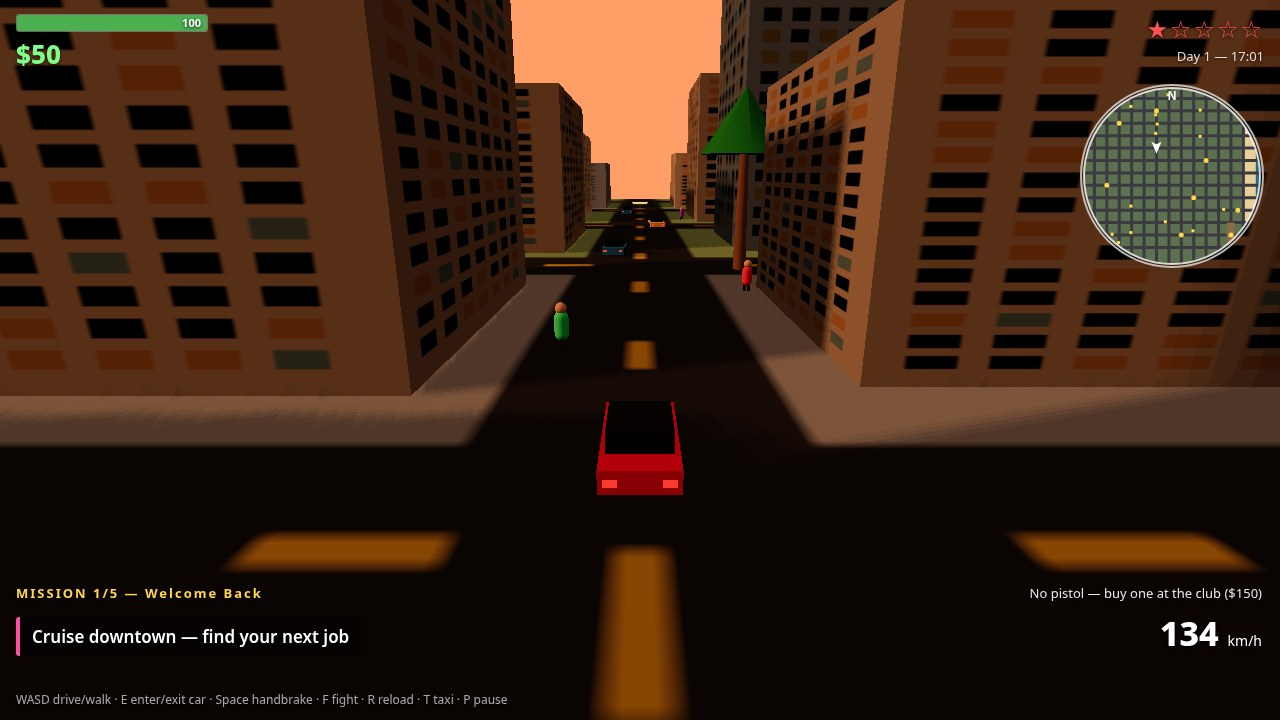
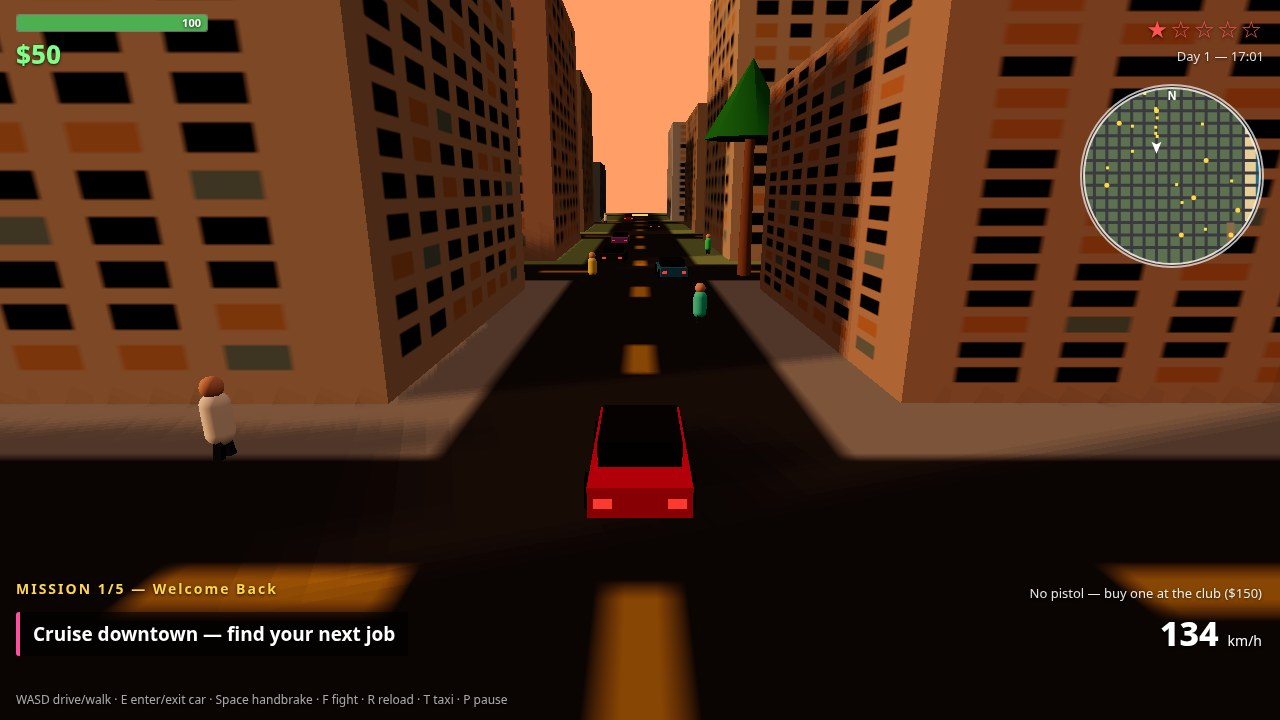
gta6-01 r5: polish screenshots — denser traffic/peds, 3rd cop + roadblock on cover, escort van + rivals visible in mission shot, closer cameras, bolder HUD objective

diff --git a/game/src/shots.js b/game/src/shots.js
@@ -11,7 +11,7 @@ import { tryAttack } from './combat.js';
 import { scarePeds } from './pedestrians.js';
 import { startMission } from './missions.js';
 import { stepWorld } from './world.js';
-import { stepCar } from './vehicles.js';
+import { stepCar, createCar } from './vehicles.js';
 
 export function parseShot() {
   const q = new URLSearchParams(window.location.search);
@@ -56,12 +56,37 @@ export function stageShot(W, scene, name) {
     p.wanted = 3;
     W.stats.bestWanted = 3;
     W.shotObjective = 'Lose the cops';
-    // Two cops posed behind: offsets x ±5, z -12/-19.
+    // Three cops posed behind: offsets x ±5, z -12/-19/-26.
     const c1 = spawnCop(W, scene, 217, -52);
     const c2 = spawnCop(W, scene, 227, -59);
-    c1.heading = 0; c2.heading = 0;
-    c1.speed = 24; c2.speed = 24;
-    W.camOverride = { yaw: Math.PI + 0.35, pitch: 0.36, dist: 17 };
+    const c3 = spawnCop(W, scene, 222, -66);
+    c1.heading = 0; c2.heading = 0; c3.heading = 0;
+    c1.speed = 24; c2.speed = 24; c3.speed = 24;
+    // Roadblock across the boulevard behind the chase (visible in
+    // frame beyond the cops): two static police cars, sideways.
+    // They are NOT in W.police, so nothing steps them — they just sit.
+    for (const bx of [216, 224]) {
+      const block = createCar(W, { kind: 'police', x: bx, z: -80, heading: Math.PI / 2, color: 0x1a2a4a });
+      block.active = true;
+      scene.add(block.mesh);
+    }
+    // Two traffic cars fleeing south up the boulevard ahead of the
+    // cops, and pedestrians scattering on both sidewalks.
+    W.traffic.slice(0, 2).forEach((c, i) => {
+      c.x = i === 0 ? 217 : 223;
+      c.z = i === 0 ? -88 : -108;
+      c.heading = 0;
+      c.cruise = 11;
+      c.route = { x: c.x, z: c.z + 40 };
+      c.mesh.position.set(c.x, 0, c.z);
+    });
+    W.peds.slice(0, 4).forEach((pd, i) => {
+      pd.x = i % 2 === 0 ? 211 : 229;
+      pd.z = -55 - i * 13;
+      pd.mesh.position.set(pd.x, 0, pd.z);
+    });
+    scarePeds(W, 222, -40, 45);
+    W.camOverride = { yaw: Math.PI + 0.3, pitch: 0.32, dist: 14 };
     W.shotSteps = 150;
     W.shotKind = 'drive';
     W.shotLane = 222;
@@ -78,11 +103,11 @@ export function stageShot(W, scene, name) {
     p.car = car;
     p.mesh.visible = false;
     // Clear traffic off the route x=-40, z -170..-30, then re-stage
-    // three traffic cars ahead on the same road (visible up the avenue)
-    // and a few peds on the sidewalks near the player.
+    // five traffic cars ahead on the same road (visible up the avenue)
+    // and six peds on the sidewalks near the player.
     clearTrafficRect(W, -50, -170, -30, -30);
-    const routeCars = W.traffic.slice(0, 3);
-    const routeSpots = [[-42.6, -110], [-37.4, -140], [-42.6, -170]];
+    const routeCars = W.traffic.slice(0, 5);
+    const routeSpots = [[-42.6, -70], [-37.4, -100], [-42.6, -130], [-37.4, -160], [-42.6, -190]];
     routeCars.forEach((c, i) => {
       c.x = routeSpots[i][0];
       c.z = routeSpots[i][1];
@@ -91,29 +116,41 @@ export function stageShot(W, scene, name) {
       c.route = { x: -40, z: c.z - 40 };
       c.mesh.position.set(c.x, 0, c.z);
     });
-    W.peds.slice(3, 6).forEach((pd, i) => {
+    W.peds.slice(3, 9).forEach((pd, i) => {
       pd.x = i % 2 === 0 ? -47 : -33;
-      pd.z = -95 - i * 10;
+      pd.z = -55 - i * 15;
       pd.mesh.position.set(pd.x, 0, pd.z);
     });
     W.shotObjective = 'Cruise downtown — find your next job';
-    W.camOverride = { yaw: Math.PI, pitch: 0.36, dist: 16 };
+    W.camOverride = { yaw: Math.PI, pitch: 0.33, dist: 13 };
     W.shotSteps = 120;
     W.shotKind = 'drive';
     W.shotLane = -40;
     W.shotBaseHeading = Math.PI;
   } else if (name === 'foot') {
     // On foot: pistol standoff by a car, peds fleeing, wanted 1.
-    p.x = 206; p.z = 30; p.heading = Math.PI * 0.75;
+    // Dario faces the car he is about to steal (east-south of him).
+    p.x = 206; p.z = 30; p.heading = 1.0;
     p.mesh.position.set(p.x, 0, p.z);
     p.hasPistol = true;
     p.ammo = CFG.PISTOL_AMMO;
     const car = W.parked.find((c) => Math.abs(c.x - 216) < 2) || W.parked[0];
     car.x = 212; car.z = 34; car.heading = Math.PI / 2;
     car.mesh.position.set(car.x, 0, car.z);
-    for (const ped of W.peds.slice(0, 4)) {
-      ped.x = 200 + W.rng() * 12;
-      ped.z = 24 + W.rng() * 10;
+    // A second parked car across the road, and a traffic car passing
+    // on the road behind Dario, so the frame reads as a live street.
+    const car2 = W.parked.find((c) => c !== car) || null;
+    if (car2) {
+      car2.x = 198; car2.z = 44; car2.heading = Math.PI / 2;
+      car2.mesh.position.set(car2.x, 0, car2.z);
+    }
+    const passer = W.traffic[0];
+    passer.x = 200; passer.z = 8; passer.heading = 0; passer.cruise = 12;
+    passer.route = { x: 200, z: 48 };
+    passer.mesh.position.set(passer.x, 0, passer.z);
+    for (const ped of W.peds.slice(0, 6)) {
+      ped.x = 198 + W.rng() * 18;
+      ped.z = 22 + W.rng() * 24;
       ped.mesh.position.set(ped.x, 0, ped.z);
     }
     scarePeds(W, p.x, p.z, 30);
@@ -121,16 +158,39 @@ export function stageShot(W, scene, name) {
     p.wanted = 1;
     W.stats.bestWanted = 1;
     W.missions.objective = 'Steal a car — walk up to one and press E';
-    W.camOverride = { yaw: p.heading, pitch: 0.3, dist: 8.5 };
+    W.camOverride = { yaw: p.heading, pitch: 0.28, dist: 6.5 };
     W.shotSteps = 90;
     W.shotKind = 'idle';
   } else if (name === 'mission') {
     // Mission start at the club: objective text, skyline + beach behind.
+    // The escort van + both rival hunters are pulled up close to Dario
+    // so the frame shows the whole beat: white van ahead, black rivals
+    // flanking it, pink marker pillar at Club Solano beyond.
     startMission(W, scene, 3); // Solano's Cut, stage 0 — marker = club
-    p.x = 160; p.z = 168; p.heading = Math.PI;
+    // Everyone stands ON the x=160 road (block centres are 20 mod 40,
+    // so x=148 would put Dario inside a building's footprint).
+    p.x = 160; p.z = 154; p.heading = Math.PI;
     p.mesh.position.set(p.x, 0, p.z);
+    const van = W.missions.van;
+    if (van) {
+      van.x = 160; van.z = 140; van.heading = Math.PI;
+      van.waypoints = [[160, 120]];
+      van.wpIndex = 0;
+      van.mesh.position.set(van.x, 0, van.z);
+    }
+    W.missions.rivals.forEach((r, i) => {
+      r.x = i === 0 ? 156 : 164;
+      r.z = i === 0 ? 130 : 134;
+      r.heading = Math.PI;
+      r.mesh.position.set(r.x, 0, r.z);
+    });
+    W.peds.slice(0, 3).forEach((pd, i) => {
+      pd.x = [153, 167, 154][i];
+      pd.z = [128, 132, 118][i];
+      pd.mesh.position.set(pd.x, 0, pd.z);
+    });
     // Look NORTH toward the club (camYaw is the look direction here).
-    W.camOverride = { yaw: Math.PI - 0.15, pitch: 0.3, dist: 13 };
+    W.camOverride = { yaw: Math.PI - 0.1, pitch: 0.28, dist: 11 };
     W.shotSteps = 60;
     W.shotKind = 'idle';
   } else {

diff --git a/game/index.html b/game/index.html
@@ -18,8 +18,8 @@
   #hud-tr { position: absolute; top: 12px; right: 16px; text-align: right; }
   #stars { font-size: 24px; letter-spacing: 2px; }
   #clock { font-size: 13px; opacity: .85; margin-top: 2px; }
-  #objective { position: absolute; left: 16px; bottom: 64px; font-size: 17px; font-weight: 600; background: rgba(0,0,0,.5); padding: 8px 12px; border-left: 4px solid #ff4fa3; border-radius: 3px; max-width: 560px; }
-  #mission-title { position: absolute; left: 16px; bottom: 118px; font-size: 13px; letter-spacing: 2px; color: #ffd54a; font-weight: 700; }
+  #objective { position: absolute; left: 16px; bottom: 64px; font-size: 19px; font-weight: 700; background: rgba(0,0,0,.55); padding: 9px 13px; border-left: 4px solid #ff4fa3; border-radius: 3px; max-width: 620px; }
+  #mission-title { position: absolute; left: 16px; bottom: 122px; font-size: 14px; letter-spacing: 2px; color: #ffd54a; font-weight: 700; }
   #speedo { position: absolute; right: 18px; bottom: 64px; font-size: 34px; font-weight: 800; }
   #speedo span { font-size: 14px; font-weight: 400; }
   #ammo { position: absolute; right: 18px; bottom: 118px; font-size: 13px; opacity: .9; }

diff --git a/README.md b/README.md
@@ -1,10 +1,10 @@
-# Solmara: Sunset Heist
+# gta6-01
 
 [![make.fun · gta6-01](https://make.fun/badge/gta6-01.svg)](https://make.fun/bounty/gta6-01?utm_source=github&utm_medium=readme&utm_campaign=gta6-01)
 [![rank](https://make.fun/badge/gta6-01/zhfz-ai/gta6-01/rank.svg)](https://make.fun/bounty/gta6-01/leaderboard?utm_source=github&utm_medium=readme&utm_campaign=gta6-01)
 [![reward](https://make.fun/badge/gta6-01/zhfz-ai/gta6-01/reward.svg)](https://make.fun/bounty/gta6-01?utm_source=github&utm_medium=readme&utm_campaign=gta6-01)
 
-Solmara: Sunset Heist is a 3D open-world crime game built for the "Make GTA 6" bounty on make.fun. Dario Cole drives for Vera Solano across Solmara, a sun-soaked coastal city rendered in three.js (vendored under game/vendor/, no network requests at runtime). Five story missions, live traffic and pedestrians, a wanted level with police chases and roadblocks, fists and pistol combat, taxi fares, stunt jumps and sun postcards, a HUD with a circular minimap, a start screen, pause, game over, and a localStorage save.
+Solmara: Sunset Heist — a 3D open-world driving game set in Solmara, a sun-soaked coastal metropolis. Play Dario Cole, an ex-getaway driver paying off his late brother's debt to club owner Vera Solano across five story missions: steal cars, outrun the police, run courier drops, protect a courier van through a rival ambush, and finish with a 3-star sunset chase to the hills. Free-roam the city on foot or by car, with traffic, pedestrians, a 0–5 star wanted system with police chases and roadblocks, pistol combat, taxi fares, stunt jumps, and collectible sun postcards — plus a HUD with health, cash, wanted stars, mission objectives, speed, and a live minimap. Built with three.js, no network loads at runtime.
 
 ## Run it
 
@@ -12,7 +12,7 @@ Solmara: Sunset Heist is a 3D open-world crime game built for the "Make GTA 6" b
 node serve.ts
 ```
 
-Then open http://localhost:8080 in a browser.
+Then open http://localhost:8080 in a desktop browser.
 
 ---
 
